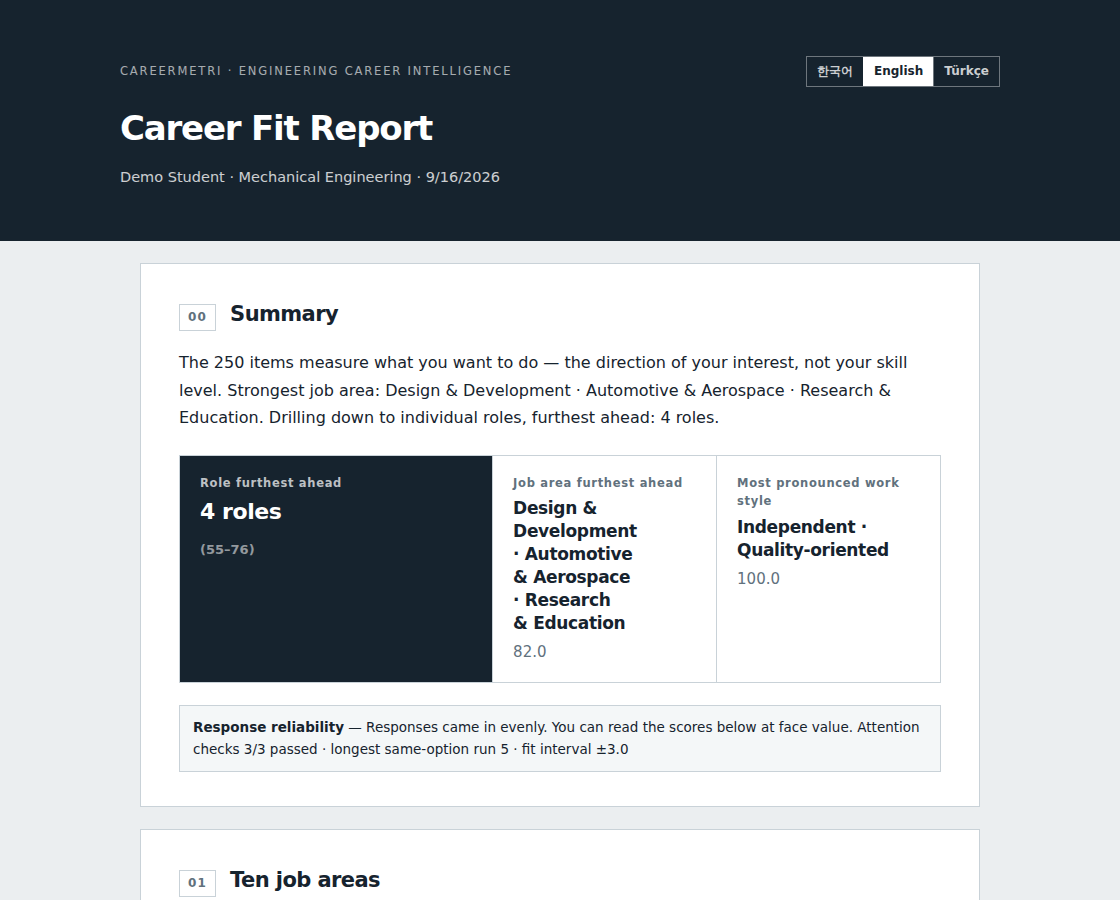
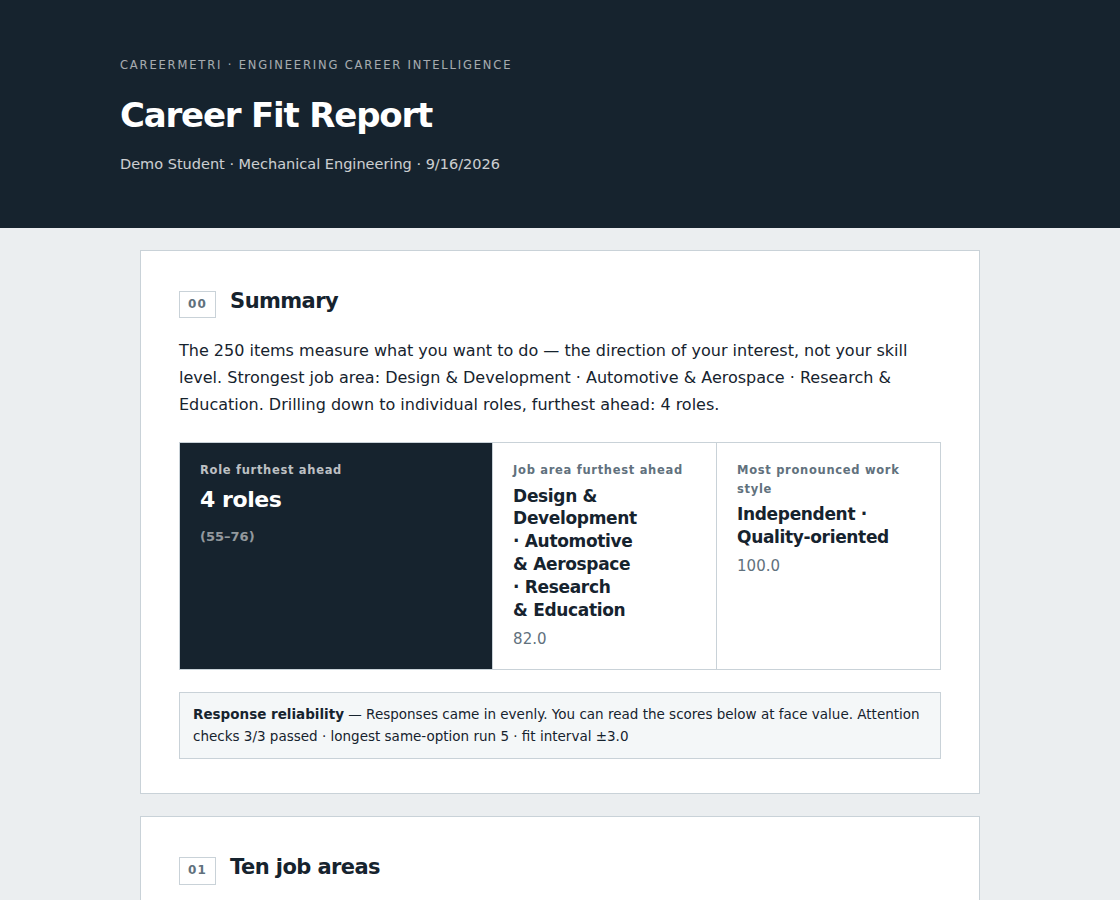
내놓는 언어를 배포본이 정하게 한다
영문 사이트에 붙일 응시 화면을 뽑는데 오른쪽 위에 한국어·English·Türkçe
탭이 떠 있었다. 외국 대학 담당자에게 보여줄 화면에서 그 줄은 우리가 무엇을
파는지가 아니라 우리 사정을 보여준다.

NEXT_PUBLIC_LANGS 가 그 배포본이 내놓는 언어를 정한다. 비워 두면 예전처럼
셋 다다 — 값을 안 채운 배포본이 조용히 달라지면 한국 쪽이 먼저 깨진다.
en 하나면 영어만 남고, 고를 것이 하나뿐일 때 전환기는 아무것도 그리지
않는다. 하나짜리 전환기는 고르는 곳이 아니라 장식이다.

resolveLang 도 같은 목록으로 좁혔다. 좁혀 놓고 기본값만 ko 로 두면 영어만
파는 배포본이 한국어로 열린다. 내놓지 않는 언어가 쿼리나 쿠키로 들어오면
무시하고 목록의 첫 번째로 간다.

img-en 두 장은 가린 것이 아니라 영어만 내놓는 빌드에서 다시 뽑았다.
가려 찍으면 실제 화면과 다른 그림이 되고, 다음 사람이 왜 다른지 모른다.
전환기 0개 · 한글 0자 · 터키어 0자를 재서 확인했다.

Claude-Session: https://claude.ai/code/session_01VsLgPeSsVvvXWmRdQnrgMy

diff --git a/pca-platform/src/lib/locale.ts b/pca-platform/src/lib/locale.ts
@@ -26,6 +26,27 @@ export function isLang(v: string | undefined): v is Lang {
   return !!v && (LANGS as readonly string[]).includes(v);
 }
 
+/**
+ * 이 배포본이 실제로 내놓는 언어.
+ *
+ * 문항과 화면 문구는 세 언어로 들어 있지만, 그렇다고 어느 시장에서나 셋을
+ * 다 보여줘야 하는 것은 아니다. 영문 시장에 한국어 탭이 떠 있으면 파는 쪽이
+ * 아니라 만든 쪽 사정을 보여주는 것이 된다.
+ *
+ * `NEXT_PUBLIC_LANGS=en` 이면 영어만, 비워 두면 예전처럼 셋 다다 —
+ * 값을 안 채운 배포본의 동작이 바뀌면 한국 쪽이 조용히 달라진다.
+ * 지원하지 않는 값이 섞여 들어오면 걸러내고, 전부 걸러지면 세 언어로 돌아간다.
+ */
+export const OFFERED_LANGS: readonly Lang[] = (() => {
+  const raw = process.env.NEXT_PUBLIC_LANGS;
+  if (!raw) return LANGS;
+  const picked = raw.split(",").map((v) => v.trim()).filter(isLang);
+  return picked.length ? (picked as Lang[]) : LANGS;
+})();
+
+/** 골라 둔 것이 없을 때 쓸 언어. 내놓는 언어 중 첫 번째다. */
+export const DEFAULT_LANG: Lang = OFFERED_LANGS[0];
+
 type Dict = Record<Lang, string>;
 const d = (ko: string, en: string, tr: string): Dict => ({ ko, en, tr });
 

diff --git a/pca-platform/src/components/lang-switch.tsx b/pca-platform/src/components/lang-switch.tsx
@@ -1,7 +1,7 @@
 "use client";
 
 import { useRouter } from "next/navigation";
-import { LANGS, LANG_COOKIE, LANG_LABEL, type Lang } from "@/lib/locale";
+import { LANG_COOKIE, LANG_LABEL, OFFERED_LANGS, type Lang } from "@/lib/locale";
 
 /**
  * 언어 전환. 쿠키를 직접 쓰고 새로고침한다.
@@ -9,13 +9,15 @@ import { LANGS, LANG_COOKIE, LANG_LABEL, type Lang } from "@/lib/locale";
  */
 export default function LangSwitch({ current }: { current: Lang }) {
   const router = useRouter();
+  // 고를 것이 하나뿐이면 전환기는 고르는 곳이 아니라 장식이다.
+  if (OFFERED_LANGS.length < 2) return null;
   const pick = (l: Lang) => {
     document.cookie = `${LANG_COOKIE}=${l}; path=/; max-age=${60 * 60 * 24 * 365}; samesite=lax`;
     router.refresh();
   };
   return (
     <div className="langsw" role="group" aria-label="Language">
-      {LANGS.map((l) => (
+      {OFFERED_LANGS.map((l) => (
         <button
           key={l}
           type="button"

diff --git a/pca-platform/src/lib/locale-server.ts b/pca-platform/src/lib/locale-server.ts
@@ -1,5 +1,5 @@
 import { cookies } from "next/headers";
-import { isLang, LANG_COOKIE, type Lang } from "./locale";
+import { DEFAULT_LANG, isLang, LANG_COOKIE, OFFERED_LANGS, type Lang } from "./locale";
 
 /**
  * 서버에서만 쓴다. locale.ts 와 나눠 둔 이유는 그 파일을 클라이언트 컴포넌트인
@@ -9,7 +9,9 @@ import { isLang, LANG_COOKIE, type Lang } from "./locale";
  * 해외 대학 담당자가 학생들에게 영어판 주소를 뿌릴 수 있다.
  */
 export async function resolveLang(override?: string): Promise<Lang> {
-  if (isLang(override)) return override;
+  const offered = (v: string | undefined): v is Lang =>
+    isLang(v) && OFFERED_LANGS.includes(v);
+  if (offered(override)) return override;
   const c = (await cookies()).get(LANG_COOKIE)?.value;
-  return isLang(c) ? c : "ko";
+  return offered(c) ? c : DEFAULT_LANG;
 }
